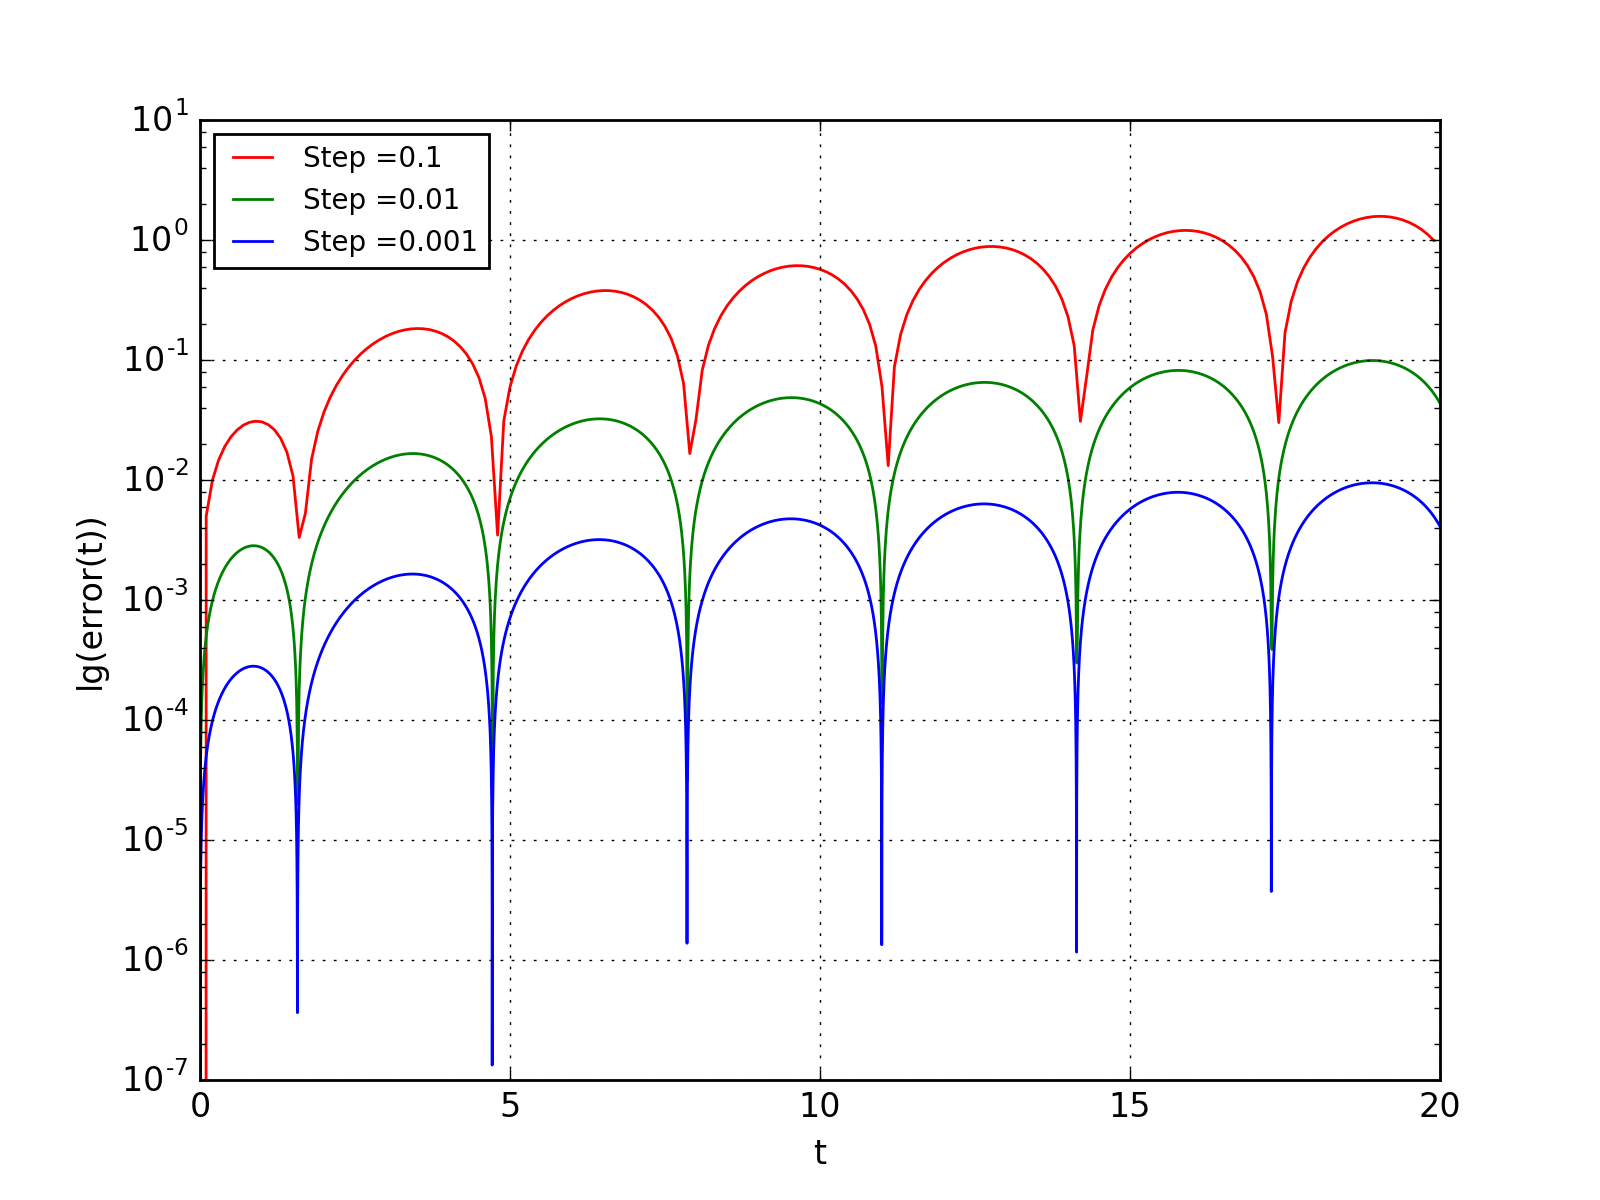
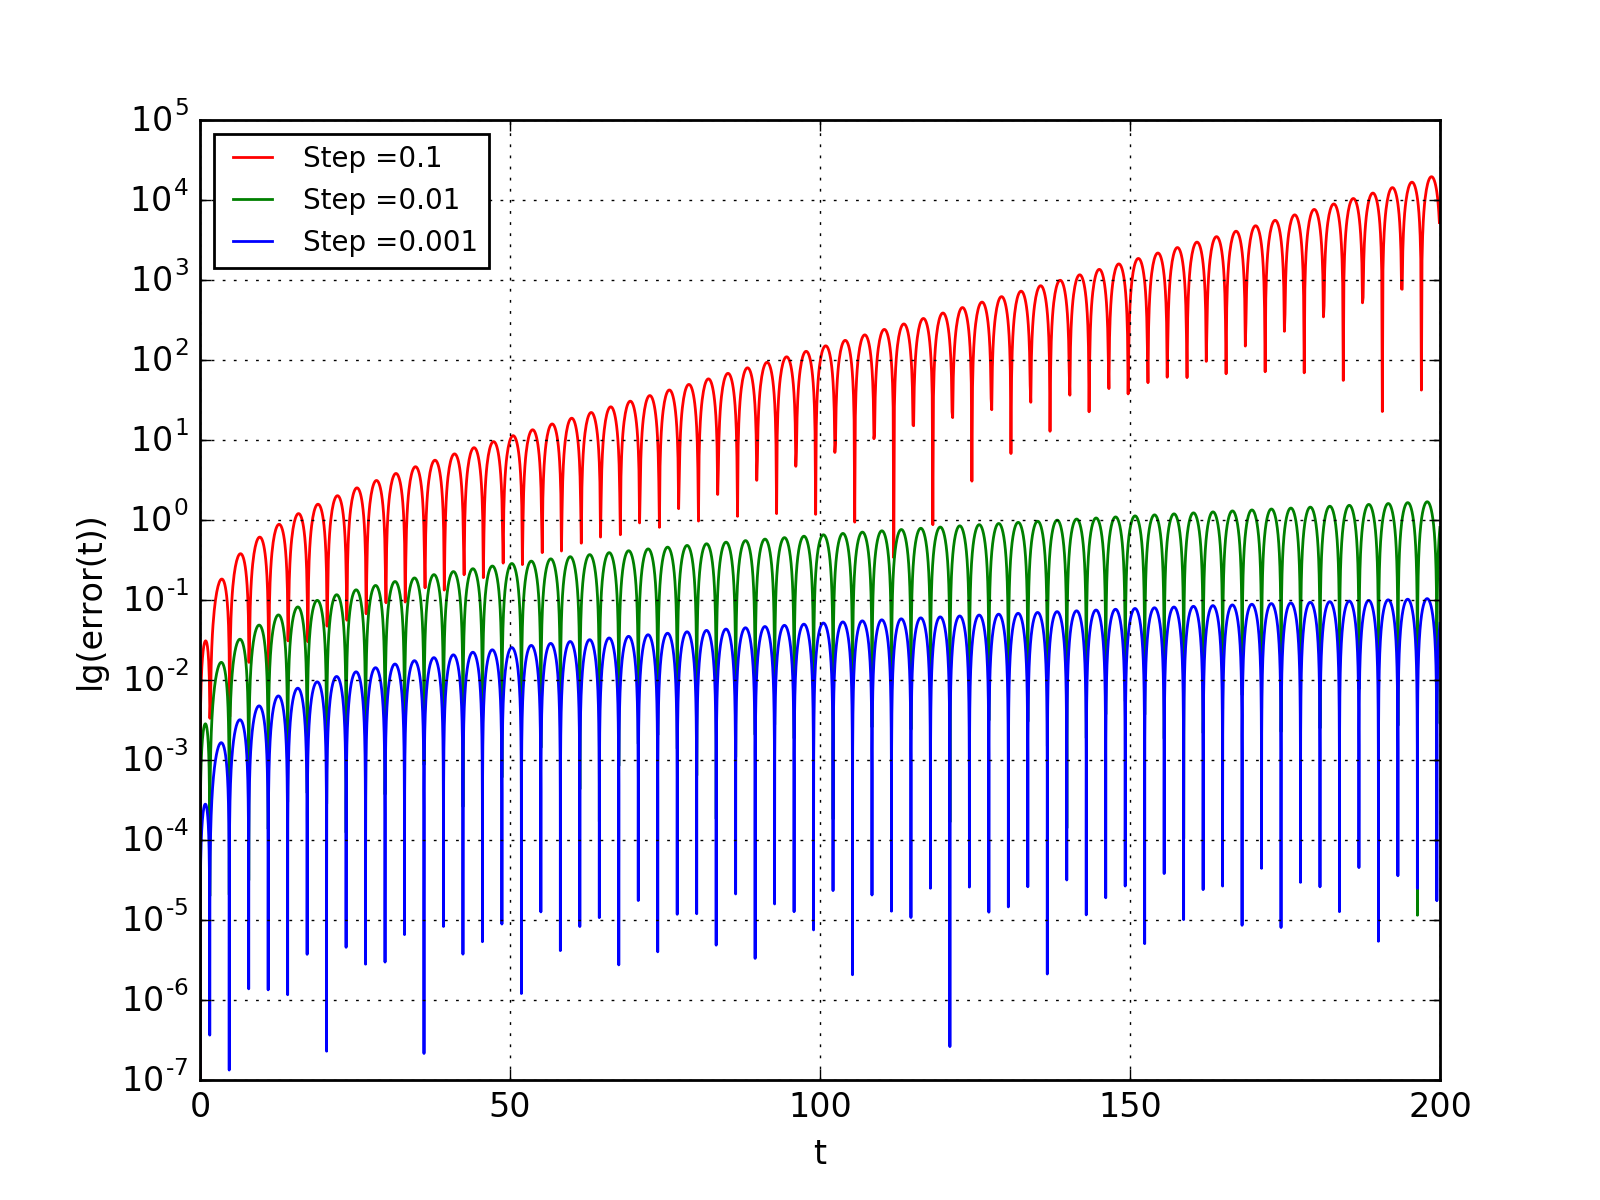
Update lab3 report

diff --git a/reports/report3.tex b/reports/report3.tex
@@ -29,11 +29,11 @@
 
 Рассмотрим работу метода на примере интегрирования уравнений \(\dot x(t) = \pm x, x(0)=1\).
 В случае положительной правой части решением уравенения является функция \(x(t)=e^x\).
-Метод Эйлера при решении этого уравнения строит последоввательность, которая растёт
+Метод Эйлера при решении этого уравнения строит последовательность, которая растёт
 как геометрическая прогрессия со знаменателем \(h+1\), в то время, как
 последовательность значений функции-решения в узлах сетки является
 геометрической прогрессией со знаменателем \(e^h\). \(e^h - 1 - h = h^2/2 + O(h^3)>0\)
-прим малом \(h\), поэтому разность между численным и истинным решениями на сетке
+при малом \(h\), поэтому разность между численным и истинным решениями на сетке
 будет расти также как геометрическая прогрессия, т.е. экспоненциально. Этот эффект
 виден на рис. \ref{fig:euler_exp_plus}.
 В случае решения уравнения \(\dot x(t) = - x, x(0)=1\) верны те же самые рассуждения,
@@ -102,13 +102,21 @@
 постоянным шагом. Точное решение неизвестно, поэтому для оценки ошибки интегрирования
 использовалось численное решение, полученное тем же методом, но с вдвое меньшим шагом.
 На рис. \ref{fig:rossler_system} показана разность численных решений по норме \(L1\).
-Из графика виден четвёртый порядок сходимости метода, а также то, что ошибка интегрирования
-изменяется сначала хаотично, а потом становится похожей на периодическую функцию.
+Из графика виден четвёртый порядок сходимости метода, а также то, что оценка ошибки интегрирования
+сначала нарастает, а потом становится похожей на периодическую функцию.
+При шаге \(10^{-1}\) видно, что на большом промежутке времени оценка ошибки нарастает,
+однако в этом случае нет уверенности в том, что поведение оценки полностью совпадает с
+поведением реальной ошибки, т.к. шаг дополнительной сетки достаточно большой.
+При меньших значениях шага интегрирования оценка ошибки имеет более сложное поведение,
+которое меняется с изменением величины шага. Тем не менее, схема с двойной сеткой позволяет
+оценить порядок ошибки в случае использования шага, равного \(10^{-2}\) или \(10^{-3}\).
+Этот порядок является вполне приемлемым для интегрирования системы.
+
 
 \begin{figure}[H]
 	\center
 	\includegraphics[width=0.75\textwidth]{../pictures/lab3_rossler_system.png}
-	\caption{Ошибка интегрирования системы Рёсслера при различных значениях шага}
+	\caption{Оценка ошибки интегрирования системы Рёсслера при различных значениях шага}
 	\label{fig:rossler_system}
 \end{figure}
 

diff --git a/scripts/lab3.py b/scripts/lab3.py
@@ -83,7 +83,7 @@ def main():
     tValues = []
     errValues = []
     for i, step in enumerate(steps):
-        timeGrid, xValues = eulerMethod(f, 0., 20., np.array([1.,0.]), step)
+        timeGrid, xValues = eulerMethod(f, 0., 200., np.array([1.,0.]), step)
         errValues.append(np.abs(np.array(xValues)[:,0] \
             - np.cos(np.array(timeGrid))))
         tValues.append(np.array(timeGrid))
@@ -97,9 +97,9 @@ def main():
     errValues = []
     for i, step in enumerate(steps):
         timeGrid, xValues = \
-            rungeKuttaMethod(f, 0., 100., np.array([1.,0., 100.]), step)
+            rungeKuttaMethod(f, 0., 1000., np.array([1.,0., 100.]), step)
         _, xValues2 =  \
-            rungeKuttaMethod(f, 0., 100., np.array([1.,0., 100.]), step / 2.)
+            rungeKuttaMethod(f, 0., 1000., np.array([1.,0., 100.]), step / 2.)
         errValues.append(np.sum(np.abs(np.array(xValues) - \
             np.array(xValues2)[::2]), axis=1))
         tValues.append(np.array(timeGrid))
